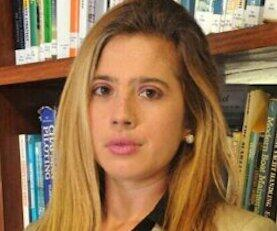
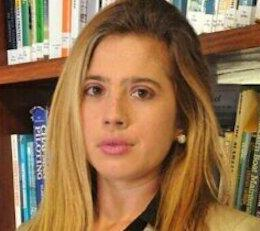
team

diff --git a/index.html b/index.html
@@ -565,7 +565,7 @@ casamento e pactos antenupciais, contrato de convivência, interdição, tutela 
             <div class="team_slider">
               <div class="single_team">
                 <figure class="team_member">
-                  <img src="assets/img/monica_vieira.jpg" alt="Monica Vieira"/>
+                  <img src="assets/img/monica_vieira.jpg" alt="Monica Vieira" style="width: 100%;"/>
                   <figcaption>
                     <p>Administradora pela FMU, compõe sua formação Mackenzie, FGV e ESPM.<br>Grande experiência nas áreas administrativa, financeira e contábil, conhecimento em administração imobiliária e de condomínios.</p>
                   </figcaption>
@@ -577,7 +577,7 @@ casamento e pactos antenupciais, contrato de convivência, interdição, tutela 
               </div>
               <div class="single_team">
                 <figure class="team_member">
-                  <img alt="Dra Marcella Blok" src="assets/img/marcella_blok.jpg"/>
+                  <img alt="Dra Marcella Blok" src="assets/img/marcella_blok.jpg" style="width: 100%;"/>
                   <figcaption>
                     <p>Advogada formada pela Puc-Rio com Pós Graduação em Direito Empresarial com ênfase em Societário e Mercado de Capitais pela FGV-Rio e em Advocacia Empresarial pela UGF.</p>
                   </figcaption>
@@ -589,7 +589,7 @@ casamento e pactos antenupciais, contrato de convivência, interdição, tutela 
               </div>
               <div class="single_team">
                 <figure class="team_member">
-                  <img src="assets/img/bianca_nogueira.jpg" alt="Dra Bianca Nogueira"/>
+                  <img src="assets/img/bianca_nogueira.jpg" alt="Dra Bianca Nogueira" style="width: 100%;"/>
                   <figcaption>
                     <p>Advogada formada pela Universidade Católica de Santos, com experiência juridíca na área do Direito do Consumidor, Direito Cível e Direiro de Família e Sucessões. Atua em todo litoral Paulista.</p>
                   </figcaption>
@@ -601,7 +601,7 @@ casamento e pactos antenupciais, contrato de convivência, interdição, tutela 
               </div>
               <div class="single_team">
                 <figure class="team_member">
-                  <img src="assets/img/natalia_verdi.jpg" alt="Dra Natalia Verdi"/>
+                  <img src="assets/img/natalia_verdi.jpg" alt="Dra Natalia Verdi" style="width: 100%;"/>
                   <figcaption>
                     <p>Advogada, Mestre em Gerontologia pela PUCSP, Especialista em Direito da Medicina pela Universidade de Coimbra, Especialista em Direito Médico, Odontológico e Hospitalar pela Escola Paulista de Direito.</p>
                   </figcaption>
@@ -613,7 +613,7 @@ casamento e pactos antenupciais, contrato de convivência, interdição, tutela 
               </div>
               <div class="single_team">
                 <figure class="team_member">
-                  <img src="assets/img/camila_coelho.jpg" alt="Dra Camila Coelho"/>
+                  <img src="assets/img/camila_coelho.jpg" alt="Dra Camila Coelho" style="width: 100%;"/>
                   <figcaption>
                     <p>Contadora, graduada em Ciências Contábeis pela Unifai/PUC, Especialista em cálculo Trabalhista e Perícia Contábil. Assessora empresas de vários setores, inclusive restaurantes, confeccionando folha de pagamento, cálculos de
                     impostos, fechamento mensal e abertura de empresa.</p>

diff --git a/index-2.html b/index-2.html
@@ -555,7 +555,7 @@ casamento e pactos antenupciais, contrato de convivência, interdição, tutela 
             <div class="team_slider">
               <div class="single_team">
                 <figure class="team_member">
-                  <img src="assets/img/monica_vieira.jpg" alt="Monica Vieira"/>
+                  <img src="assets/img/monica_vieira.jpg" alt="Monica Vieira" style="width: 100%;"/>
                   <figcaption>
                     <p>Administradora pela FMU, compõe sua formação Mackenzie, FGV e ESPM.<br>Grande experiência nas áreas administrativa, financeira e contábil, conhecimento em administração imobiliária e de condomínios.</p>
                   </figcaption>
@@ -567,7 +567,7 @@ casamento e pactos antenupciais, contrato de convivência, interdição, tutela 
               </div>
               <div class="single_team">
                 <figure class="team_member">
-                  <img alt="Dra Marcella Blok" src="assets/img/marcella_blok.jpg"/>
+                  <img alt="Dra Marcella Blok" src="assets/img/marcella_blok.jpg" style="width: 100%;"/>
                   <figcaption>
                     <p>Advogada formada pela Puc-Rio com Pós Graduação em Direito Empresarial com ênfase em Societário e Mercado de Capitais pela FGV-Rio e em Advocacia Empresarial pela UGF.</p>
                   </figcaption>
@@ -579,7 +579,7 @@ casamento e pactos antenupciais, contrato de convivência, interdição, tutela 
               </div>
               <div class="single_team">
                 <figure class="team_member">
-                  <img src="assets/img/bianca_nogueira.jpg" alt="Dra Bianca Nogueira"/>
+                  <img src="assets/img/bianca_nogueira.jpg" alt="Dra Bianca Nogueira" style="width: 100%;"/>
                   <figcaption>
                     <p>Advogada formada pela Universidade Católica de Santos, com experiência juridíca na área do Direito do Consumidor, Direito Cível e Direiro de Família e Sucessões. Atua em todo litoral Paulista.</p>
                   </figcaption>
@@ -591,7 +591,7 @@ casamento e pactos antenupciais, contrato de convivência, interdição, tutela 
               </div>
               <div class="single_team">
                 <figure class="team_member">
-                  <img src="assets/img/natalia_verdi.jpg" alt="Dra Natalia Verdi"/>
+                  <img src="assets/img/natalia_verdi.jpg" alt="Dra Natalia Verdi" style="width: 100%;"/>
                   <figcaption>
                     <p>Advogada, Mestre em Gerontologia pela PUCSP, Especialista em Direito da Medicina pela Universidade de Coimbra, Especialista em Direito Médico, Odontológico e Hospitalar pela Escola Paulista de Direito.</p>
                   </figcaption>
@@ -603,7 +603,7 @@ casamento e pactos antenupciais, contrato de convivência, interdição, tutela 
               </div>
               <div class="single_team">
                 <figure class="team_member">
-                  <img src="assets/img/camila_coelho.jpg" alt="Dra Camila Coelho"/>
+                  <img src="assets/img/camila_coelho.jpg" alt="Dra Camila Coelho" style="width: 100%;"/>
                   <figcaption>
                     <p>Contadora, graduada em Ciências Contábeis pela Unifai/PUC, Especialista em cálculo Trabalhista e Perícia Contábil. Assessora empresas de vários setores, inclusive restaurantes, confeccionando folha de pagamento, cálculos de
           impostos, fechamento

diff --git a/boletins/bol-06-2019.html b/boletins/bol-06-2019.html
@@ -132,8 +132,6 @@
                     <a href="https://api.whatsapp.com/send?phone=5511972759525&amp;text=PA%20Consultoria%20%2D%20Fale%20Conosco" data-pgc-field="top-bar-link" rel="nofollow noreferrer"> <i class="icofont icofont-social-whatsapp" data-pgc-field="top-bar-icon"></i> </a>
                   </li>
                 </ul>
-                <!--[Pinegrow components saved data - this data is no longer used in the component. We're saving it just in case. Clear this with Components -> Clear saved unused edits]<i class="icofont icofont-phone " data-pgc-field="top-bar-icon"></i><a href="tel:+551124002835" data-pgc-field="top-bar-link">+55 (11) 2400-2835</a><a href="mailto:contato@paconsultoria.adv.br " data-pgc-field="top-bar-link"> <i class="icofont icofont-envelope " data-pgc-field="top-bar-icon"></i>
-          contato@paconsultoria.adv.br </a><i class="icofont icofont-envelope " data-pgc-field="top-bar-icon"></i><a href="https://www.linkedin.com/in/pa-consultoria-a38826187" data-pgc-field="top-bar-link" target="_blank" rel="noreferrer noopener"> <i class="icofont icofont-brand-linkedin " data-pgc-field="top-bar-icon"></i> </a><i class="icofont icofont-brand-linkedin " data-pgc-field="top-bar-icon"></i><a href="https://instagram.com/consultoriapa?igshid=9hmb4ztc5afa" data-pgc-field="top-bar-link" target="_blank" rel="noreferrer noopener"> <i class="icofont icofont-social-instagram" data-pgc-field="top-bar-icon"></i> </a><i class="icofont icofont-social-instagram" data-pgc-field="top-bar-icon"></i><a href="https://api.whatsapp.com/send?phone=5511972759525&amp;text=PA%20Consultoria%20%2D%20Fale%20Conosco" data-pgc-field="top-bar-link" rel="nofollow noreferrer"> <i class="icofont icofont-social-whatsapp" data-pgc-field="top-bar-icon"></i> </a><i class="icofont icofont-social-whatsapp" data-pgc-field="top-bar-icon"></i>-->
               </div>
               <div class="mainnmenu">
                 <nav>

diff --git a/boletins/bol-09-2019.html b/boletins/bol-09-2019.html
@@ -120,8 +120,6 @@
                     <a href="https://api.whatsapp.com/send?phone=5511972759525&amp;text=PA%20Consultoria%20%2D%20Fale%20Conosco" data-pgc-field="top-bar-link" rel="nofollow noreferrer"> <i class="icofont icofont-social-whatsapp" data-pgc-field="top-bar-icon"></i> </a>
                   </li>
                 </ul>
-                <!--[Pinegrow components saved data - this data is no longer used in the component. We're saving it just in case. Clear this with Components -> Clear saved unused edits]<i class="icofont icofont-phone " data-pgc-field="top-bar-icon"></i><a href="tel:+551124002835" data-pgc-field="top-bar-link">+55 (11) 2400-2835</a><a href="mailto:contato@paconsultoria.adv.br " data-pgc-field="top-bar-link"> <i class="icofont icofont-envelope " data-pgc-field="top-bar-icon"></i>
-          contato@paconsultoria.adv.br </a><i class="icofont icofont-envelope " data-pgc-field="top-bar-icon"></i><a href="https://www.linkedin.com/in/pa-consultoria-a38826187" data-pgc-field="top-bar-link" target="_blank" rel="noreferrer noopener"> <i class="icofont icofont-brand-linkedin " data-pgc-field="top-bar-icon"></i> </a><i class="icofont icofont-brand-linkedin " data-pgc-field="top-bar-icon"></i><a href="https://instagram.com/consultoriapa?igshid=9hmb4ztc5afa" data-pgc-field="top-bar-link" target="_blank" rel="noreferrer noopener"> <i class="icofont icofont-social-instagram" data-pgc-field="top-bar-icon"></i> </a><i class="icofont icofont-social-instagram" data-pgc-field="top-bar-icon"></i><a href="https://api.whatsapp.com/send?phone=5511972759525&amp;text=PA%20Consultoria%20%2D%20Fale%20Conosco" data-pgc-field="top-bar-link" rel="nofollow noreferrer"> <i class="icofont icofont-social-whatsapp" data-pgc-field="top-bar-icon"></i> </a><i class="icofont icofont-social-whatsapp" data-pgc-field="top-bar-icon"></i>-->
               </div>
               <div class="mainnmenu">
                 <nav>

diff --git a/boletins/bol-master.html b/boletins/bol-master.html
@@ -120,8 +120,6 @@
                     <a href="https://api.whatsapp.com/send?phone=5511972759525&amp;text=PA%20Consultoria%20%2D%20Fale%20Conosco" data-pgc-field="top-bar-link" rel="nofollow noreferrer"> <i class="icofont icofont-social-whatsapp" data-pgc-field="top-bar-icon"></i> </a>
                   </li>
                 </ul>
-                <!--[Pinegrow components saved data - this data is no longer used in the component. We're saving it just in case. Clear this with Components -> Clear saved unused edits]<i class="icofont icofont-phone " data-pgc-field="top-bar-icon"></i><a href="tel:+551124002835" data-pgc-field="top-bar-link">+55 (11) 2400-2835</a><a href="mailto:contato@paconsultoria.adv.br " data-pgc-field="top-bar-link"> <i class="icofont icofont-envelope " data-pgc-field="top-bar-icon"></i>
-          contato@paconsultoria.adv.br </a><i class="icofont icofont-envelope " data-pgc-field="top-bar-icon"></i><a href="https://www.linkedin.com/in/pa-consultoria-a38826187" data-pgc-field="top-bar-link" target="_blank" rel="noreferrer noopener"> <i class="icofont icofont-brand-linkedin " data-pgc-field="top-bar-icon"></i> </a><i class="icofont icofont-brand-linkedin " data-pgc-field="top-bar-icon"></i><a href="https://instagram.com/consultoriapa?igshid=9hmb4ztc5afa" data-pgc-field="top-bar-link" target="_blank" rel="noreferrer noopener"> <i class="icofont icofont-social-instagram" data-pgc-field="top-bar-icon"></i> </a><i class="icofont icofont-social-instagram" data-pgc-field="top-bar-icon"></i><a href="https://api.whatsapp.com/send?phone=5511972759525&amp;text=PA%20Consultoria%20%2D%20Fale%20Conosco" data-pgc-field="top-bar-link" rel="nofollow noreferrer"> <i class="icofont icofont-social-whatsapp" data-pgc-field="top-bar-icon"></i> </a><i class="icofont icofont-social-whatsapp" data-pgc-field="top-bar-icon"></i>-->
               </div>
               <div class="mainnmenu">
                 <nav>

diff --git a/index_2.html b/index_2.html
@@ -119,8 +119,6 @@
                     <a href="https://api.whatsapp.com/send?phone=5511972759525&amp;text=PA%20Consultoria%20%2D%20Fale%20Conosco" data-pgc-field="top-bar-link" rel="nofollow noreferrer"> <i class="icofont icofont-social-whatsapp" data-pgc-field="top-bar-icon"></i> </a>
                   </li>
                 </ul>
-                <!--[Pinegrow components saved data - this data is no longer used in the component. We're saving it just in case. Clear this with Components -> Clear saved unused edits]<i class="icofont icofont-phone " data-pgc-field="top-bar-icon"></i><a href="tel:+551124002835" data-pgc-field="top-bar-link">+55 (11) 2400-2835</a><a href="mailto:contato@paconsultoria.adv.br " data-pgc-field="top-bar-link"> <i class="icofont icofont-envelope " data-pgc-field="top-bar-icon"></i>
-          contato@paconsultoria.adv.br </a><i class="icofont icofont-envelope " data-pgc-field="top-bar-icon"></i><a href="https://www.linkedin.com/in/pa-consultoria-a38826187" data-pgc-field="top-bar-link" target="_blank" rel="noreferrer noopener"> <i class="icofont icofont-brand-linkedin " data-pgc-field="top-bar-icon"></i> </a><i class="icofont icofont-brand-linkedin " data-pgc-field="top-bar-icon"></i><a href="https://instagram.com/consultoriapa?igshid=9hmb4ztc5afa" data-pgc-field="top-bar-link" target="_blank" rel="noreferrer noopener"> <i class="icofont icofont-social-instagram" data-pgc-field="top-bar-icon"></i> </a><i class="icofont icofont-social-instagram" data-pgc-field="top-bar-icon"></i><a href="https://api.whatsapp.com/send?phone=5511972759525&amp;text=PA%20Consultoria%20%2D%20Fale%20Conosco" data-pgc-field="top-bar-link" rel="nofollow noreferrer"> <i class="icofont icofont-social-whatsapp" data-pgc-field="top-bar-icon"></i> </a><i class="icofont icofont-social-whatsapp" data-pgc-field="top-bar-icon"></i>-->
               </div>
               <div class="mainnmenu">
                 <nav>

diff --git a/single-service.html b/single-service.html
@@ -120,8 +120,6 @@
                     <a href="https://api.whatsapp.com/send?phone=5511972759525&amp;text=PA%20Consultoria%20%2D%20Fale%20Conosco" data-pgc-field="top-bar-link" rel="nofollow noreferrer"> <i class="icofont icofont-social-whatsapp" data-pgc-field="top-bar-icon"></i> </a>
                   </li>
                 </ul>
-                <!--[Pinegrow components saved data - this data is no longer used in the component. We're saving it just in case. Clear this with Components -> Clear saved unused edits]<i class="icofont icofont-phone " data-pgc-field="top-bar-icon"></i><a href="tel:+551124002835" data-pgc-field="top-bar-link">+55 (11) 2400-2835</a><a href="mailto:contato@paconsultoria.adv.br " data-pgc-field="top-bar-link"> <i class="icofont icofont-envelope " data-pgc-field="top-bar-icon"></i>
-          contato@paconsultoria.adv.br </a><i class="icofont icofont-envelope " data-pgc-field="top-bar-icon"></i><a href="https://www.linkedin.com/in/pa-consultoria-a38826187" data-pgc-field="top-bar-link" target="_blank" rel="noreferrer noopener"> <i class="icofont icofont-brand-linkedin " data-pgc-field="top-bar-icon"></i> </a><i class="icofont icofont-brand-linkedin " data-pgc-field="top-bar-icon"></i><a href="https://instagram.com/consultoriapa?igshid=9hmb4ztc5afa" data-pgc-field="top-bar-link" target="_blank" rel="noreferrer noopener"> <i class="icofont icofont-social-instagram" data-pgc-field="top-bar-icon"></i> </a><i class="icofont icofont-social-instagram" data-pgc-field="top-bar-icon"></i><a href="https://api.whatsapp.com/send?phone=5511972759525&amp;text=PA%20Consultoria%20%2D%20Fale%20Conosco" data-pgc-field="top-bar-link" rel="nofollow noreferrer"> <i class="icofont icofont-social-whatsapp" data-pgc-field="top-bar-icon"></i> </a><i class="icofont icofont-social-whatsapp" data-pgc-field="top-bar-icon"></i>-->
               </div>
               <div class="mainnmenu">
                 <nav>

diff --git a/style.scss b/style.scss
@@ -81,7 +81,7 @@ html {
 }
 
 figure {
-    position: relative;
+    position: relative
 }
 
 .fix_p {
@@ -1000,7 +1000,7 @@ figure.team_member>figcaption {
     position: absolute;
     top: 0;
     width: 100%;
-    padding: 30px 25px;
+    padding: 40px 25px 30px;
     -webkit-transform: scale(0);
     -ms-transform: scale(0);
     transform: scale(0);
@@ -1043,8 +1043,8 @@ figure.team_member::before {
     font-size: 28px;
     left: 22px;
     position: absolute;
-    color: #0a384e;
-    top: 3%;
+    color: #fff;
+    top: 4%;
 }
 
 ul.team_text {
@@ -1202,7 +1202,7 @@ figure.team_member:hover img {
 }
 
 .owl-carousel .owl-item img {
-    width: auto;
+    width: auto
 }
 
 .owl-dot {
@@ -3196,7 +3196,7 @@ blockquote p {
     }
 
     .team_member {
-        text-align: center;
+        text-align: center
     }
 
     .project_photo h5 {

diff --git a/style.css b/style.css
@@ -848,7 +848,7 @@ figure.team_member > figcaption {
   position: absolute;
   top: 0;
   width: 100%;
-  padding: 30px 25px;
+  padding: 40px 25px 30px;
   -webkit-transform: scale(0);
   -ms-transform: scale(0);
   transform: scale(0); }
@@ -887,8 +887,8 @@ figure.team_member::before {
   font-size: 28px;
   left: 22px;
   position: absolute;
-  color: #0a384e;
-  top: 3%; }
+  color: #fff;
+  top: 4%; }
 
 ul.team_text {
   margin: 20px 0; }

diff --git a/assets/js/main.js b/assets/js/main.js
@@ -149,7 +149,7 @@
         items: 1
       },
       600: {
-        items: 3
+        items: 2
       },
       992: {
         items: 4
